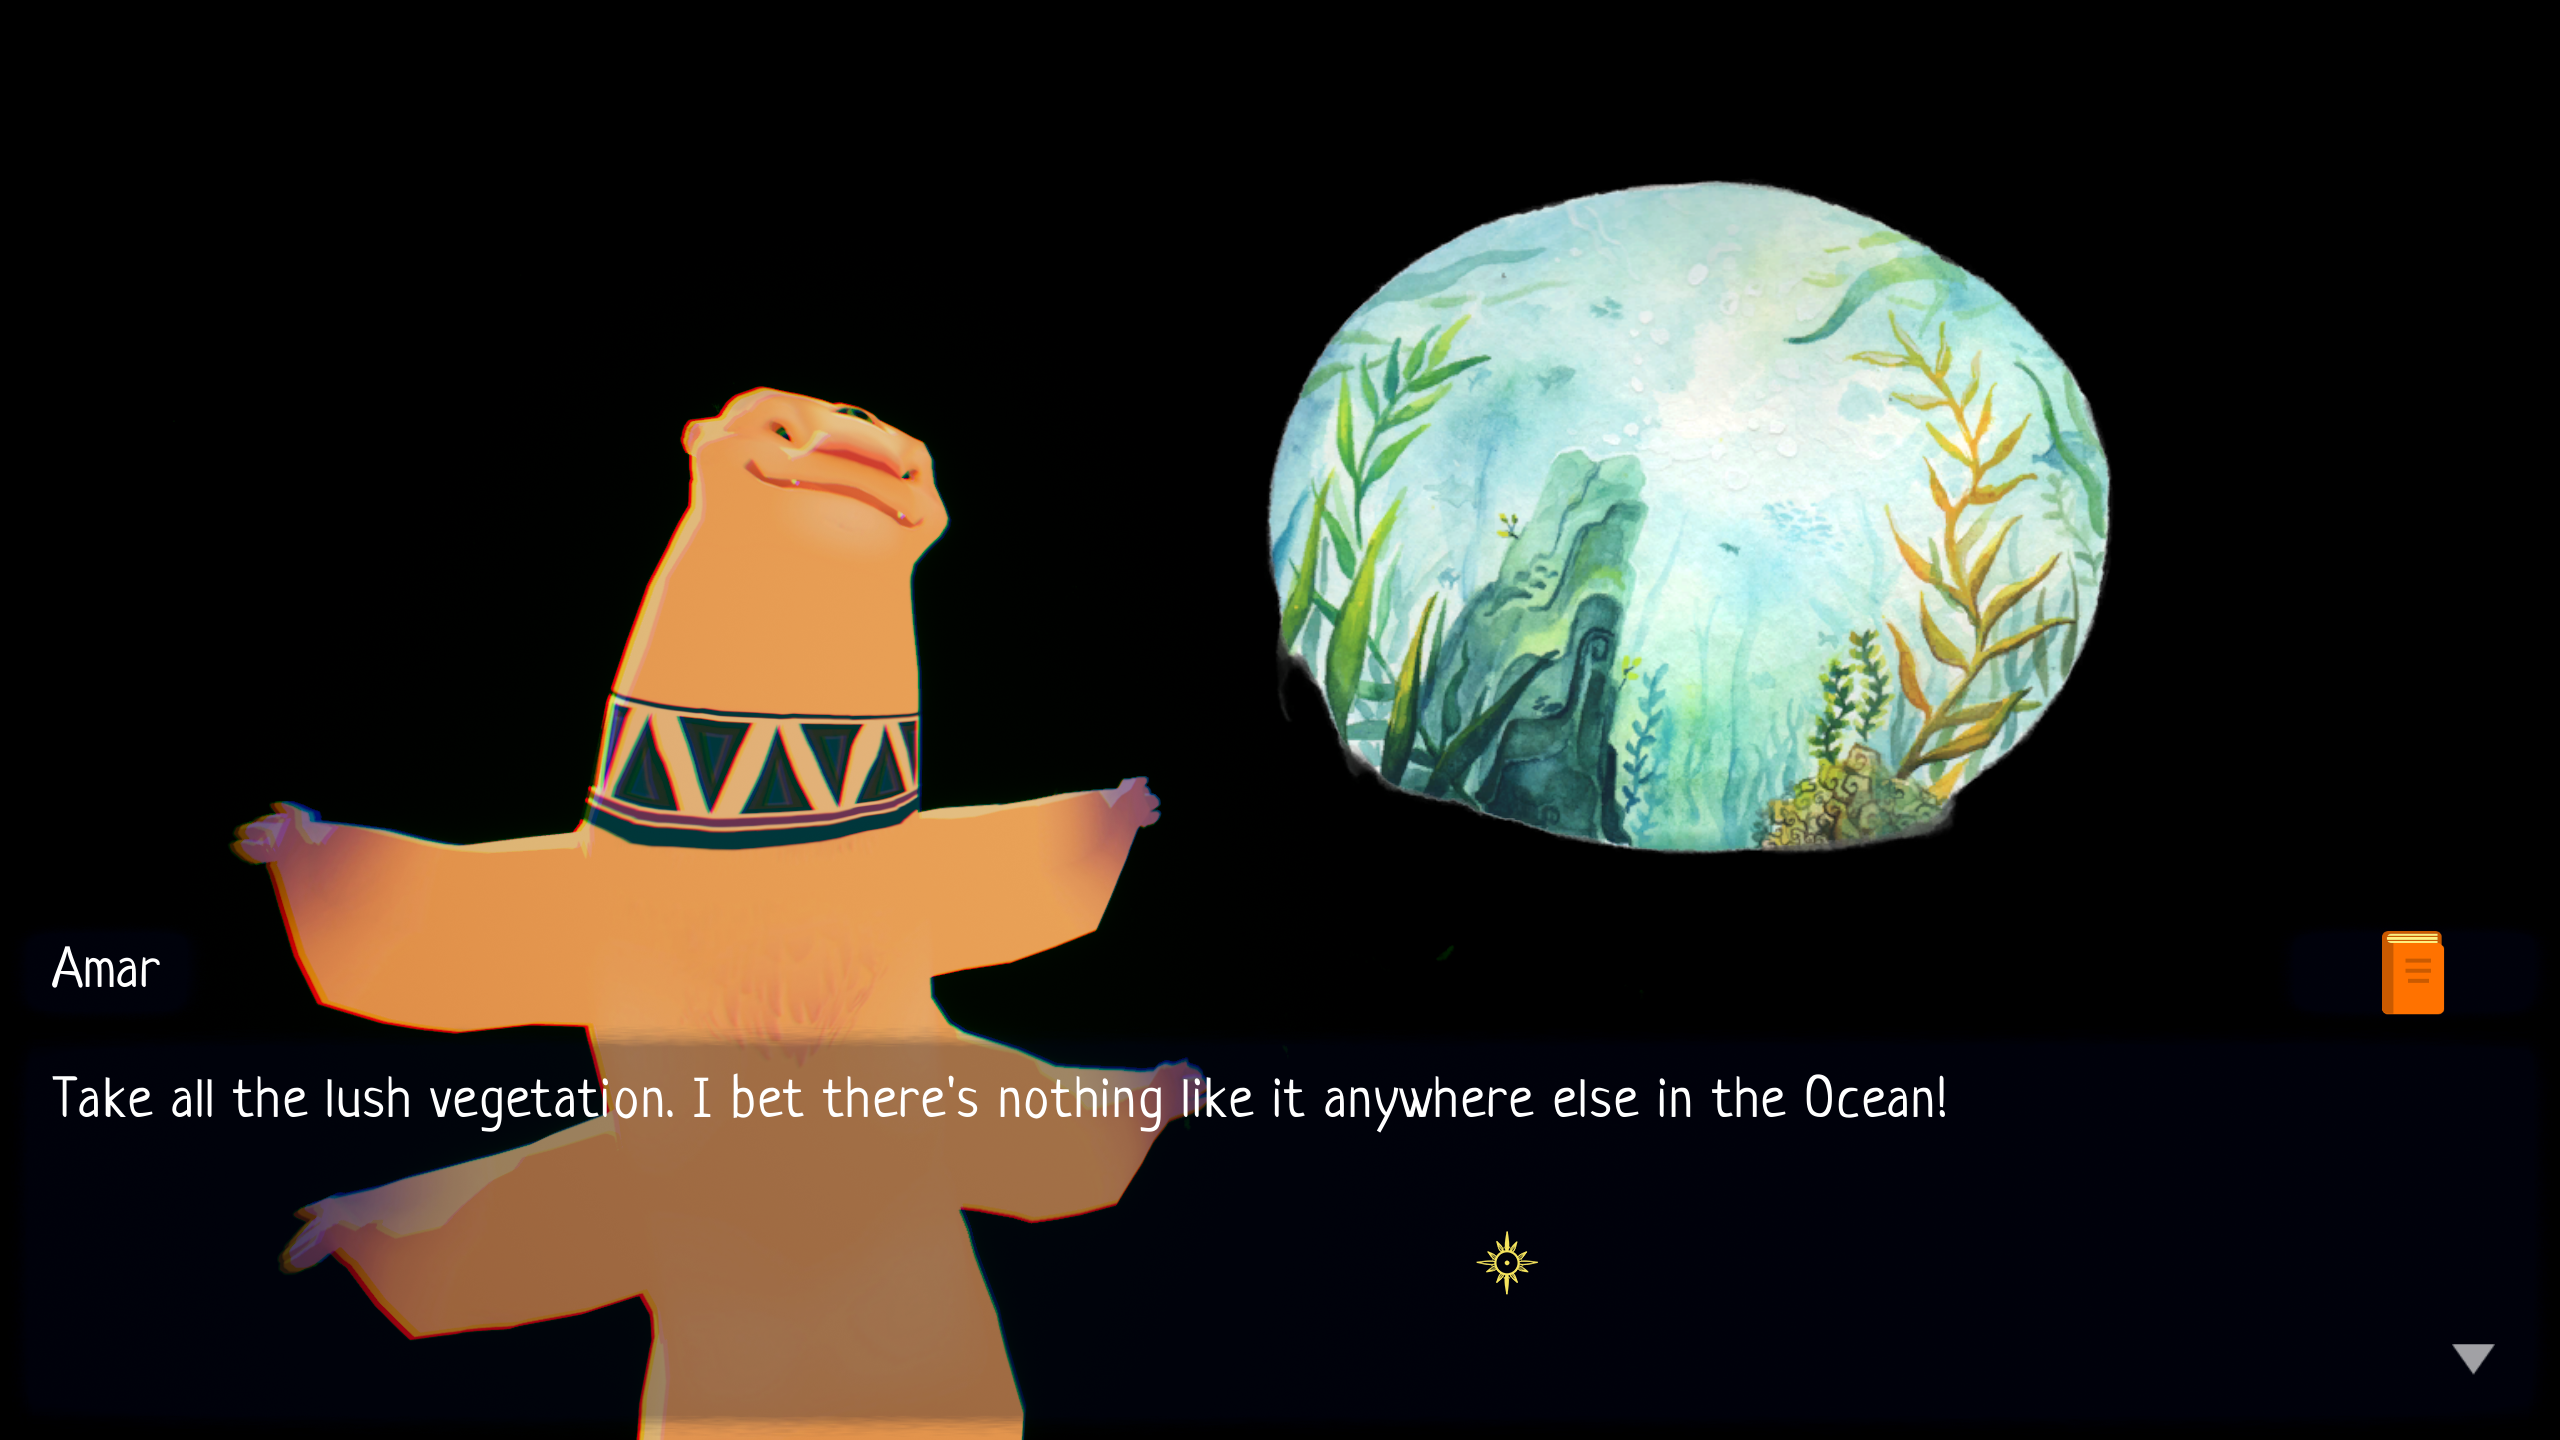
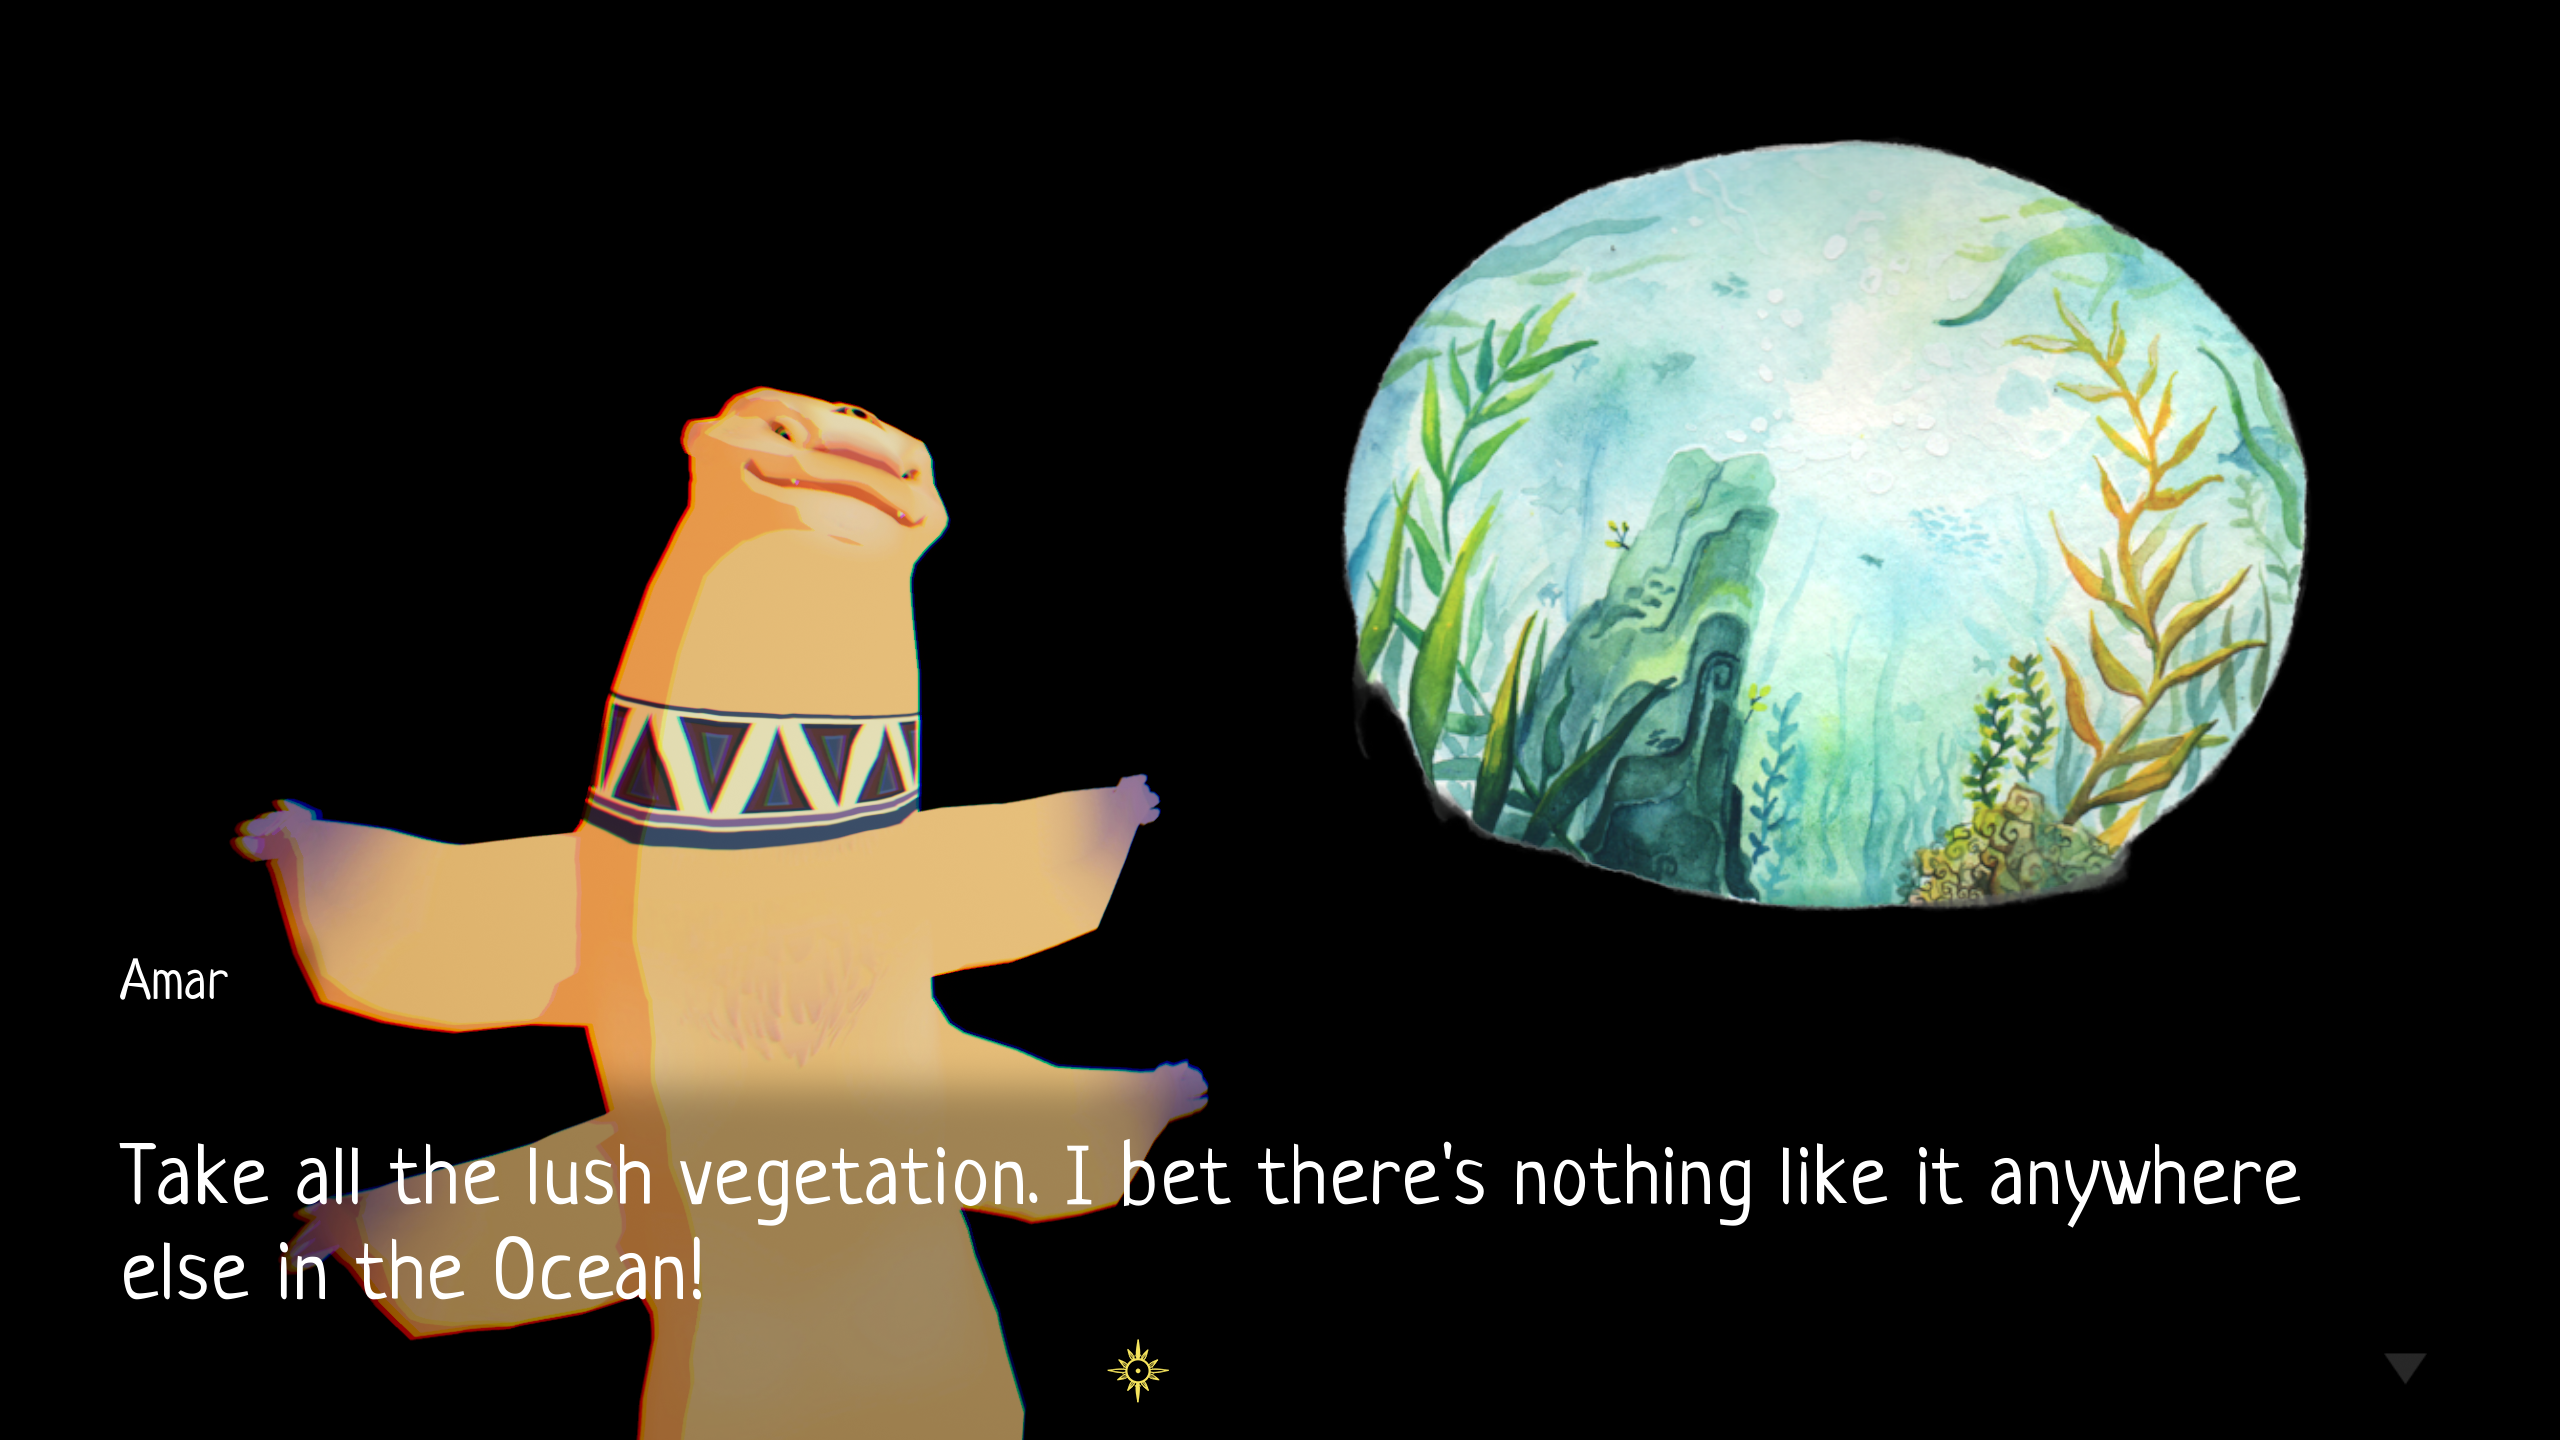
Added support for custom game splash pages with a new Hugo layout, and used this to make the new Mythic Ocean splash page.

diff --git a/content/page/mythic-ocean.md b/content/page/mythic-ocean.md
@@ -126,8 +126,8 @@ game-name: "Mythic Ocean"
             </a>
         </div>
         <div class="image-cell">
-            <a href="/images/presskit/screenshots/high/screenshot_01.png">
-                <img src="/images/presskit/screenshots/preview/screenshot_01.png" class="adaptive-image">
+            <a href="/images/presskit/screenshots/high/screenshot_09.png">
+                <img src="/images/presskit/screenshots/preview/screenshot_09.png" class="adaptive-image">
             </a>
         </div>
     </div>
